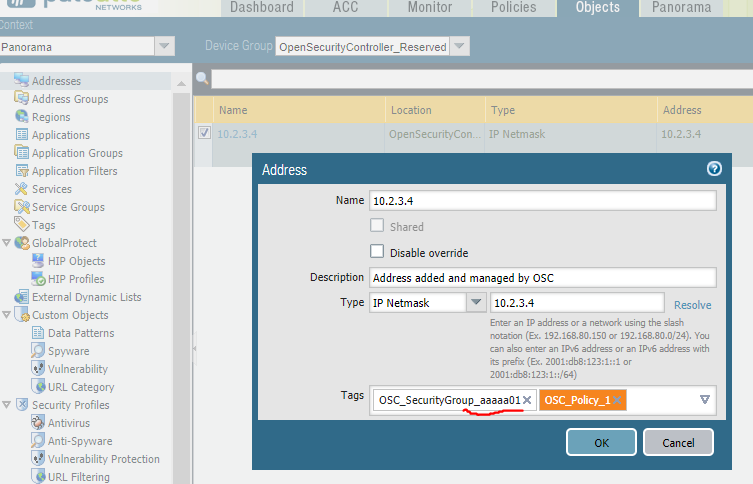
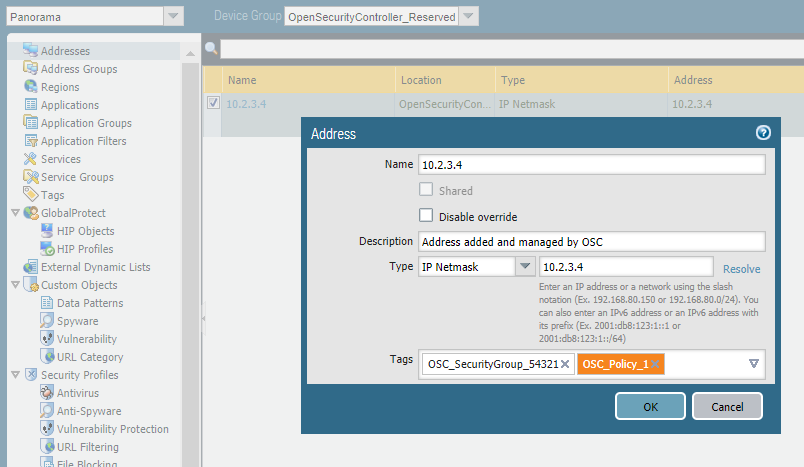
Address review comments.

diff --git a/designs/panorama_plugin/panorama_plugin.md b/designs/panorama_plugin/panorama_plugin.md
@@ -2,7 +2,7 @@
 This is a security appliance plugin for the Panorama Security Management Appliance, which orchestrates PaloAlto virtual firewalls deployed by OSC. The plugin shall conform to the [security manager api](https://github.com/opensecuritycontroller/security-mgr-api) specification. We propose to have:
 - A Panorama Dynamic address group for each OSC security policy. It will be labeled by a tag and targeted by a _Panorama_ security policy.
 - In Panorama, we define two classes of tags: one to associate Panorama Address Objects with a security group, and another -- with a security policy.
-- The security group tags are managed by osc (through Panorama API) and the policy tags are managed manually on Panorama.
+- The security group tags are managed by OSC (through the Panorama API) and the policy tags are managed manually on Panorama.
 
 ## Assignees
 Dmitry Gerenrot ([dmitryintel](https://github.com/dmitryintel)).
@@ -14,26 +14,27 @@ The Panorama version is at least 7.1. The firewalls are running PAN-VM-KVM-7.1.4
 
 We propose the following workflow for creating a security group from OSC.
 
-- Begin by creating a distributed appliance on OSC with PAN-VM-KVM-7.1.4 as the service function. OSC then creates a Device Group under panorama via Panorama API. (For example, **DistributedAppGroup**).
+- Begin by creating a distributed appliance on OSC with PAN-VM-KVM-7.1.4 as the service function. OSC then creates a Device Group under panorama via the Panorama API. (For example, **DistributedAppGroup**).
 - Proceed by defining the security policies on panorama as follows:
 	- For each policy to be managed by the **Panorama Security Plugin**, there will be a dynamic address group (DAG) under the **DistributedAppGroup** and a _shared_ tag, e.g., **OSC_Policy_1**. Panorama administrators _create these manually_.
+	- It is also possible to use any other shared tag that has been used to label a Panorama security policy.
 	- Under the panorama **Policies** tab, create a security policy to target the DAG as usual.
 	
 ![](./images/AddressGroups.PNG)
 
 - There should be no more manual steps on the panorama side.
-- In the OSC, create a security group. (E.g. security group id is **aaaaa01**). For each address in a security group, the OSC will create an address object under the **DistributedAppGroup**.
-- OSC also creates a tag of the form  **OSC_SecurityGroup_aaaaa01**.
+- In the OSC, create a security group. (Suppose the security group Id, _which assigned by OSC_ is **54321**). For each address in a security group, the OSC will create an address object under the **DistributedAppGroup**.
+- OSC also creates a Panorama tag of the form **OSC_SecurityGroup_54321**.
 - There will be one such tag per security group. All the address objects will be labeled by it.
-- Binding happens when OSC edits the address objects to also reference one of the policy tags. This way, address is always labeled by a security group tag and sometimes by a policy tag. This is only while the security group is bound.
-- The OSC will edit all the addresses and tags via the [Panorama API](https://www.paloaltonetworks.com/documentation/71/pan-os/xml-api).
+- Binding happens when OSC creates the address objects in Panorama and labels them with security group and security policy tags. 
+- The OSC will use the [Panorama API](https://www.paloaltonetworks.com/documentation/71/pan-os/xml-api) to do that.
 
 ![](./images/Address.PNG)
 
 Panorama administrators should:
-- Understand this workflow 
-- Recognize the DAGs and tags created by OSC
-- Generally, should not edit any of them.
+- understand this workflow
+- recognize the DAGs and tags created by OSC
+- generally speaking, not edit any of them
 
 The naming conventions/prefixes are up for discussion.
 
@@ -41,7 +42,15 @@ The naming conventions/prefixes are up for discussion.
 No changes anticipated.
 
 ### OSC SDKs
-No changes anticipated.
+No changes anticipated. However, an implementation detail should be noted.
+
+Under `org.osc.sdk.manager.api`:
+- `ManagerSecurityGroupApi`
+	- `create/update/deleteSecurityGroup` calls will result in creation/update or deletion of Panorama address objects with the appropriate label.
+	- `getSecurityGroupList` and `getSecurityGroupById` will list the OSC-managed security group tags.
+- `ManagerSecurityGroupInterfaceApi`
+	- `create/update/deleteSecurityGroupInterface` calls will result in adding or changing the policy tags under each address object. (The argument to these calls is a `SecurityGroupInterfaceElement` which carries policy information.
+- `ManagerPolicyApi` will list the shared tags.
 
 ### SDN Controller SDK
 No changes anticipated.
